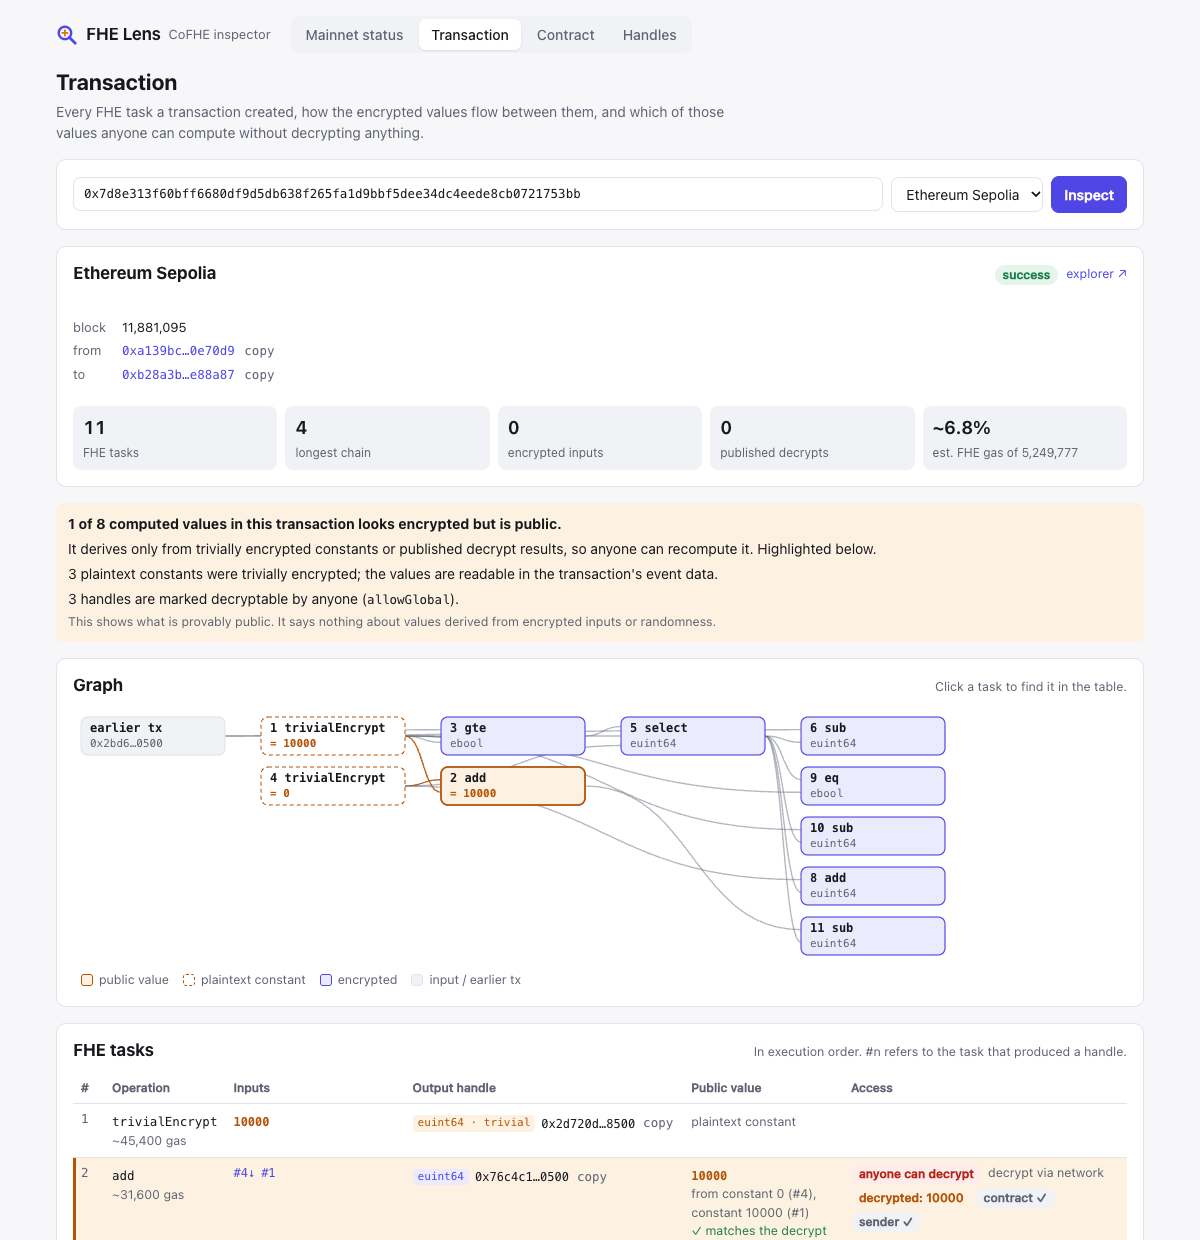
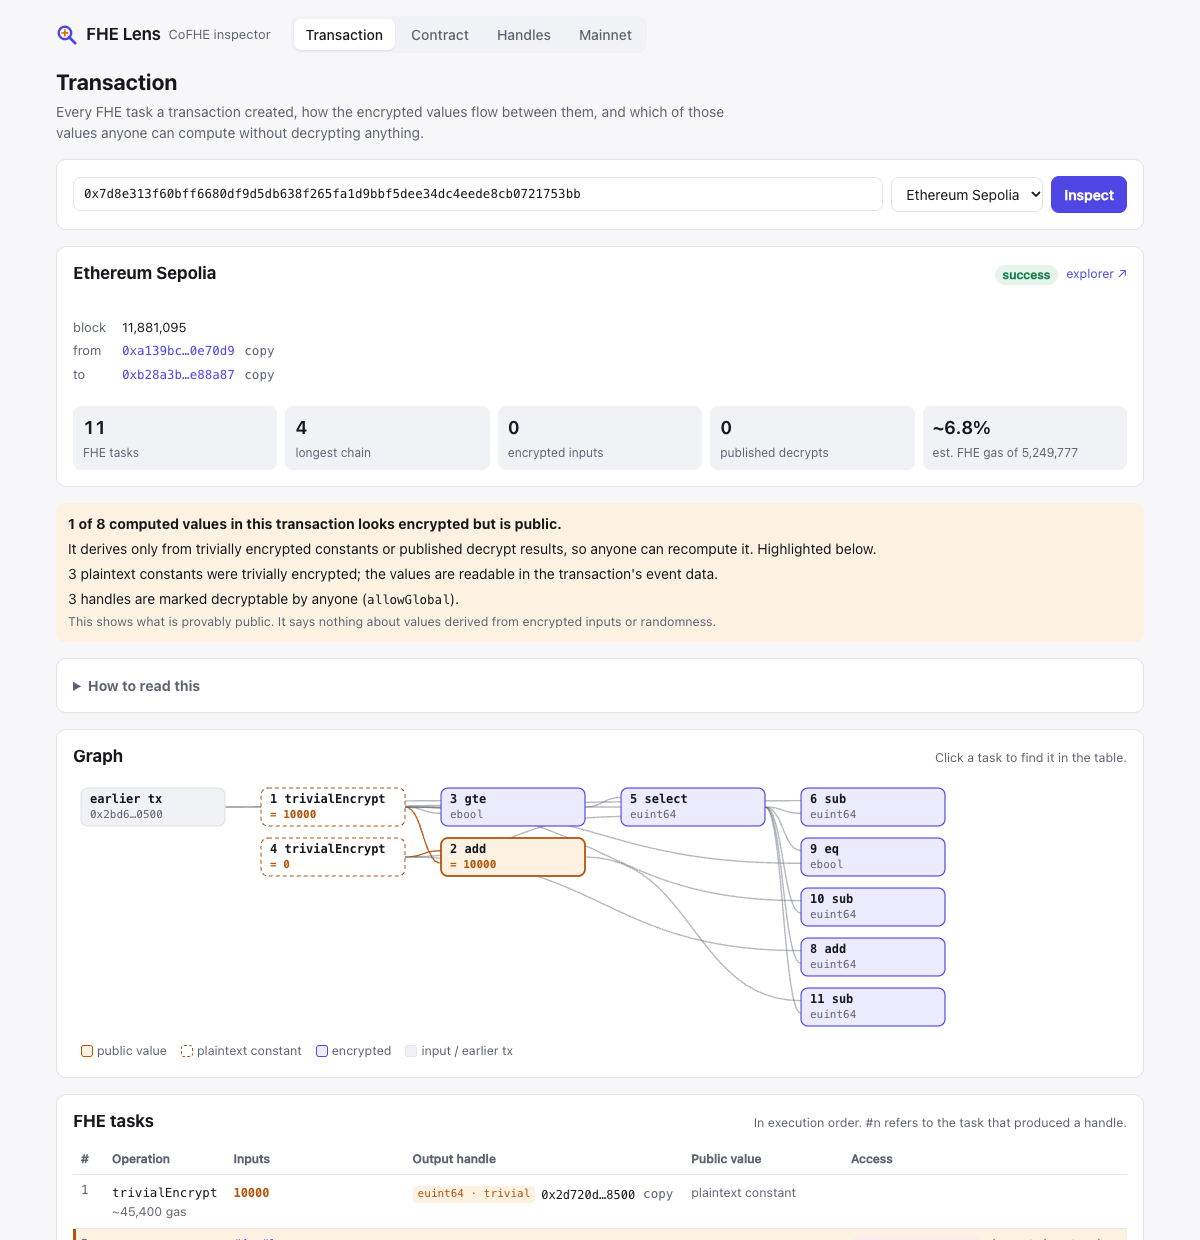
Open on the transaction view and explain the terms
The landing page was the mainnet status, which shows an idle
TaskManager until intake opens. The app now opens on the transaction
view with its examples, and tabs read Transaction, Contract, Handles,
Mainnet. A "How to read this" key spells out the legend and badges,
since hover titles don't exist on phones. On narrow screens the tabs
stay on one line, legend items don't break, and the graph says it
scrolls sideways.

diff --git a/src/ui/Glossary.tsx b/src/ui/Glossary.tsx
@@ -1,0 +1,65 @@
+// Plain-language key for the tx view. Hover titles don't exist on phones, so the terms are spelled out here.
+
+import type { ReactNode } from 'react'
+import { Pill } from './components'
+
+const TERMS: Array<{ term: ReactNode; text: ReactNode }> = [
+  {
+    term: (
+      <>
+        <span className="swatch public" /> public value
+      </>
+    ),
+    text: 'Looks encrypted, but anyone can recompute it from plaintext constants or published decrypt results. This is what FHE Lens is looking for.',
+  },
+  {
+    term: (
+      <>
+        <span className="swatch trivial" /> plaintext constant
+      </>
+    ),
+    text: (
+      <>
+        Made with <code>trivialEncrypt</code>, e.g. <code>FHE.asEuint64(10000)</code>. The number is stored in the transaction's event data for anyone to read.
+      </>
+    ),
+  },
+  {
+    term: (
+      <>
+        <span className="swatch secret" /> encrypted
+      </>
+    ),
+    text: 'Depends on an encrypted user input, randomness or an unknown earlier value. FHE Lens can say nothing about it.',
+  },
+  {
+    term: <Pill tone="danger">anyone can decrypt</Pill>,
+    text: (
+      <>
+        The contract called <code>allowGlobal</code> on this handle, so anyone may ask the CoFHE network for its value. FHE Lens can do that for you and check the network's signature.
+      </>
+    ),
+  },
+  { term: <Pill>contract ✓ / sender ✓</Pill>, text: "The transaction's target contract or sender may use this handle (the ACL's isAllowed)." },
+  { term: 'handle', text: 'The 32-byte id that stands for an encrypted value on chain. Its last two bytes give the type and whether it came from a plaintext constant.' },
+  { term: 'earlier tx', text: 'A handle this transaction used but did not create. The contract report follows such handles back through earlier transactions.' },
+  { term: 'est. FHE gas', text: "Estimated from the gas table in the CoFHE docs; it's the cost of the FHE calls, not of the off-chain computation." },
+]
+
+export function Glossary({ open = false }: { open?: boolean }) {
+  return (
+    <details className="card glossary" open={open}>
+      <summary>
+        <h3>How to read this</h3>
+      </summary>
+      <dl>
+        {TERMS.map(({ term, text }, i) => (
+          <div key={i}>
+            <dt>{term}</dt>
+            <dd>{text}</dd>
+          </div>
+        ))}
+      </dl>
+    </details>
+  )
+}

diff --git a/src/index.css b/src/index.css
@@ -137,6 +137,7 @@ h3 {
   border-radius: 7px;
   color: var(--text-2);
   font-weight: 500;
+  white-space: nowrap;
 }
 .tabs a:hover {
   text-decoration: none;
@@ -474,6 +475,15 @@ details summary {
   .top {
     gap: 10px;
   }
+  .tabs {
+    width: 100%;
+    overflow-x: auto;
+  }
+  .tabs a {
+    flex: 1;
+    text-align: center;
+    padding: 5px 8px;
+  }
   .bar-row {
     grid-template-columns: 84px 1fr 52px;
   }
@@ -584,4 +594,60 @@ details summary {
 .swatch.secret {
   background: var(--accent-weak);
   border-color: var(--accent);
+}
+
+/* graph hint: only where the graph can overflow */
+.graph-hint {
+  display: none;
+}
+@media (max-width: 720px) {
+  .graph-hint {
+    display: block;
+    margin-top: 4px;
+  }
+}
+
+/* glossary */
+.glossary summary {
+  cursor: pointer;
+  list-style-position: inside;
+}
+.glossary summary h3 {
+  display: inline;
+}
+.glossary dl {
+  display: grid;
+  grid-template-columns: minmax(150px, max-content) 1fr;
+  gap: 8px 16px;
+  margin: 12px 0 0;
+}
+.glossary dl > div {
+  display: contents;
+}
+.glossary dt {
+  color: var(--text);
+  font-size: 13px;
+  display: flex;
+  align-items: center;
+  gap: 6px;
+}
+.glossary dd {
+  margin: 0;
+  font-size: 13px;
+}
+@media (max-width: 640px) {
+  .glossary dl {
+    grid-template-columns: 1fr;
+    gap: 2px;
+  }
+  .glossary dd {
+    margin-bottom: 8px;
+  }
+}
+
+.legend-item {
+  display: inline-flex;
+  align-items: center;
+  gap: 4px;
+  white-space: nowrap;
 }

diff --git a/src/pages/TxPage.tsx b/src/pages/TxPage.tsx
@@ -12,6 +12,7 @@ import { findTxChain, loadTx, type LoadedTx } from '../tx/load'
 import type { Task } from '../tx/task'
 import { useClients } from '../ui/clients'
 import { Addr, ErrorBox, HandleBadge, Pill, Stat } from '../ui/components'
+import { Glossary } from '../ui/Glossary'
 import { OpGraph } from '../ui/OpGraph'
 import { DecryptButton } from '../ui/DecryptButton'
 import { fmt, pct, txUrl } from '../ui/format'
@@ -37,6 +38,7 @@ export function TxPage({ params }: { params: string[] }) {
       </div>
       <TxForm key={`${chainKey}:${hash}`} initialHash={hash ?? ''} initialChain={chainKey ?? 'auto'} />
       {!hash && <Examples />}
+      {!hash && <Glossary open />}
       {hash && !isTxHash(hash) && <ErrorBox error="That is not a transaction hash (0x followed by 64 hex characters)." />}
       {hash && isTxHash(hash) && !chain && <FindChain hash={hash as Hash} />}
       {hash && isTxHash(hash) && chain && <TxView key={`${chain.id}:${hash}`} chain={chain} hash={hash as Hash} />}
@@ -214,6 +216,8 @@ function TxDetails({ t }: { t: LoadedTx }) {
       )}
 
       {graph.tasks.length === 0 && graph.decrypts.length === 0 && graph.inputs.size === 0 && <p className="muted">This transaction did not interact with the CoFHE TaskManager.</p>}
+
+      {graph.tasks.length > 0 && <Glossary />}
 
       {graph.tasks.length > 1 && (
         <section className="card">

diff --git a/src/ui/OpGraph.tsx b/src/ui/OpGraph.tsx
@@ -146,8 +146,20 @@ export function OpGraph({ graph, known, onSelect }: { graph: TxGraph; known: Map
           </g>
         ))}
       </svg>
+      {width > 560 && <span className="small muted graph-hint">Scroll sideways to see the whole graph.</span>}
       <div className="row small muted legend">
-        <span className="swatch public" /> public value <span className="swatch trivial" /> plaintext constant <span className="swatch secret" /> encrypted <span className="swatch input" /> input / earlier tx
+        <span className="legend-item">
+          <span className="swatch public" /> public value
+        </span>
+        <span className="legend-item">
+          <span className="swatch trivial" /> plaintext constant
+        </span>
+        <span className="legend-item">
+          <span className="swatch secret" /> encrypted
+        </span>
+        <span className="legend-item">
+          <span className="swatch input" /> input / earlier tx
+        </span>
       </div>
     </div>
   )

diff --git a/src/App.tsx b/src/App.tsx
@@ -18,14 +18,14 @@ function useRoute(): string[] {
 }
 
 const TABS = [
-  ['status', 'Mainnet status'],
   ['tx', 'Transaction'],
   ['contract', 'Contract'],
   ['handles', 'Handles'],
+  ['status', 'Mainnet'],
 ] as const
 
 export default function App() {
-  const [page = 'status', ...params] = useRoute()
+  const [page = 'tx', ...params] = useRoute()
 
   return (
     <div className="shell">
@@ -43,14 +43,14 @@ export default function App() {
         </nav>
       </header>
       <main>
-        {page === 'tx' ? (
-          <TxPage params={params} />
+        {page === 'status' ? (
+          <StatusPage />
         ) : page === 'contract' ? (
           <ContractPage params={params} />
         ) : page === 'handles' ? (
           <HandlesPage key={params.join('/')} params={params} />
         ) : (
-          <StatusPage />
+          <TxPage params={page === 'tx' ? params : []} />
         )}
       </main>
       <footer className="stack tight">
